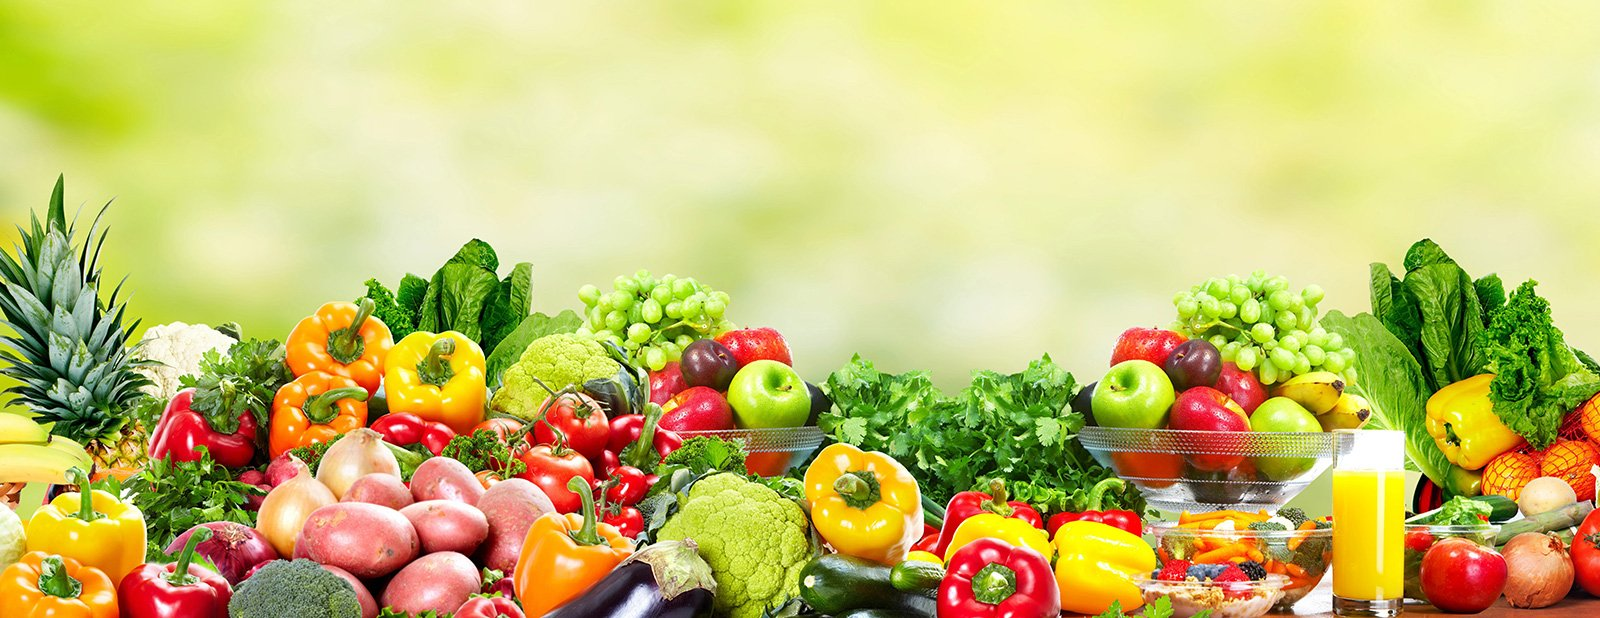
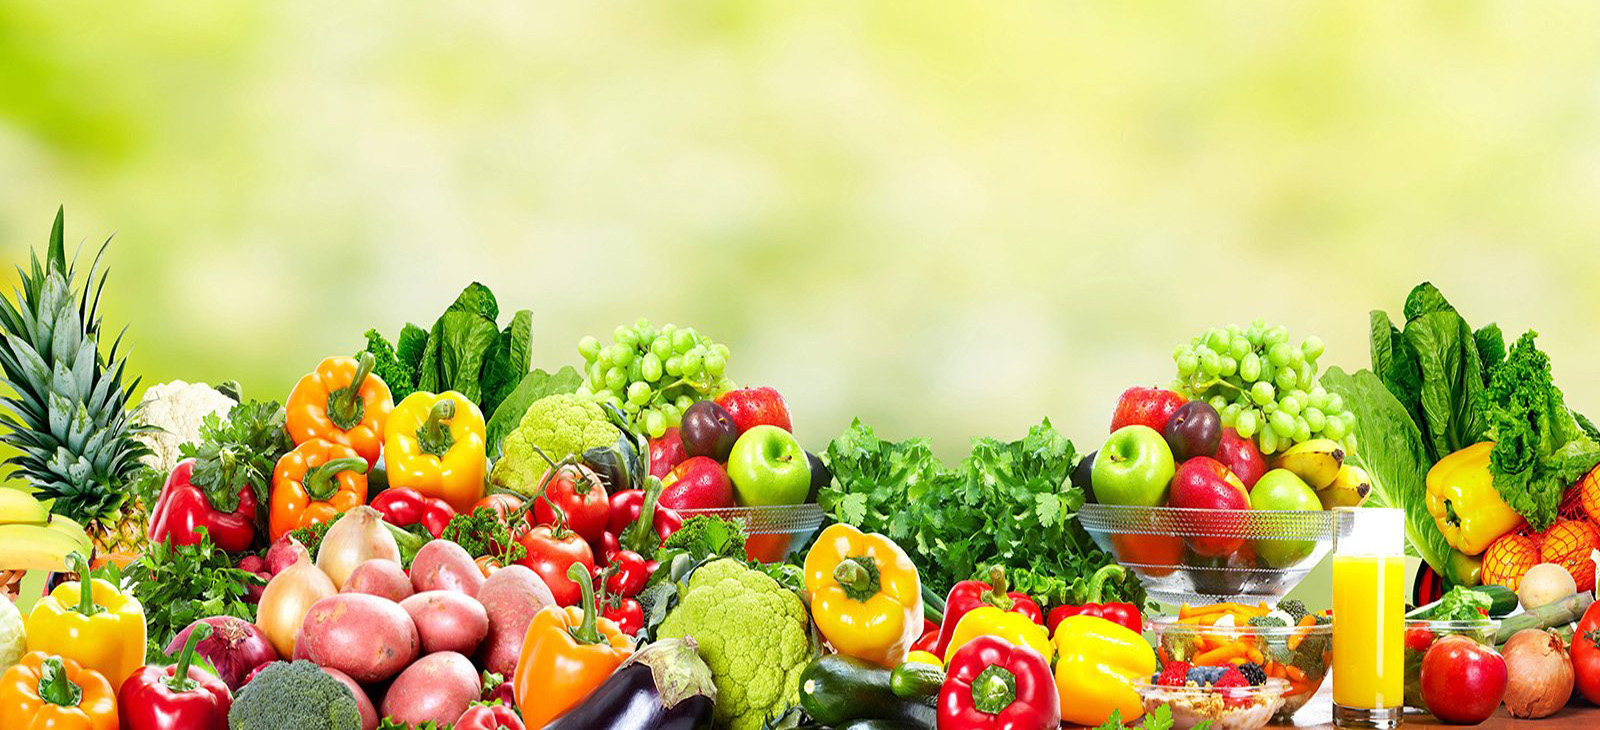
second  edited for mobile devices home page --12

Changed region(s): [[0.7812, 0.7071, 0.8125, 0.7379]]

diff --git a/index.html b/index.html
@@ -117,7 +117,7 @@
   </div>
 
   <div class="mySlides fade">
-    <img src="assets/img/green.jpg" style="width: 100%;">
+    <img src="assets/img/green1.jpg" style="width: 100%;">
     </div>
   
   
@@ -264,7 +264,7 @@
           <div class="col-lg-3 col-6 pb-3 text-center align-items-center">
             <img src="assets/img/happy.png" alt="">
              <p>Happy Customers</p>
-          <span data-toggle="counter-up">2000</span>
+          <span data-toggle="counter-up">900</span>
             <span> +</span>
             <br>
           </div>
@@ -279,7 +279,7 @@
 
           <div class="col-lg-3 col-6 pb-3 text-center">
             <img src="assets/img/machine.png" alt=""> <p>Hours Of Support</p>
-            <span data-toggle="counter-up">3000</span>
+            <span data-toggle="counter-up">999</span>
             <span> +</span>
             <br>
           </div>

diff --git a/assets/css/style.css b/assets/css/style.css
@@ -482,7 +482,7 @@ ul.tags li a, ul.social_icon li a,
     background-size: cover;
     position: relative;
     object-fit: contain;
-height:35vh;
+height:250px;
   }
   #hero .container {
     background-size: cover;
